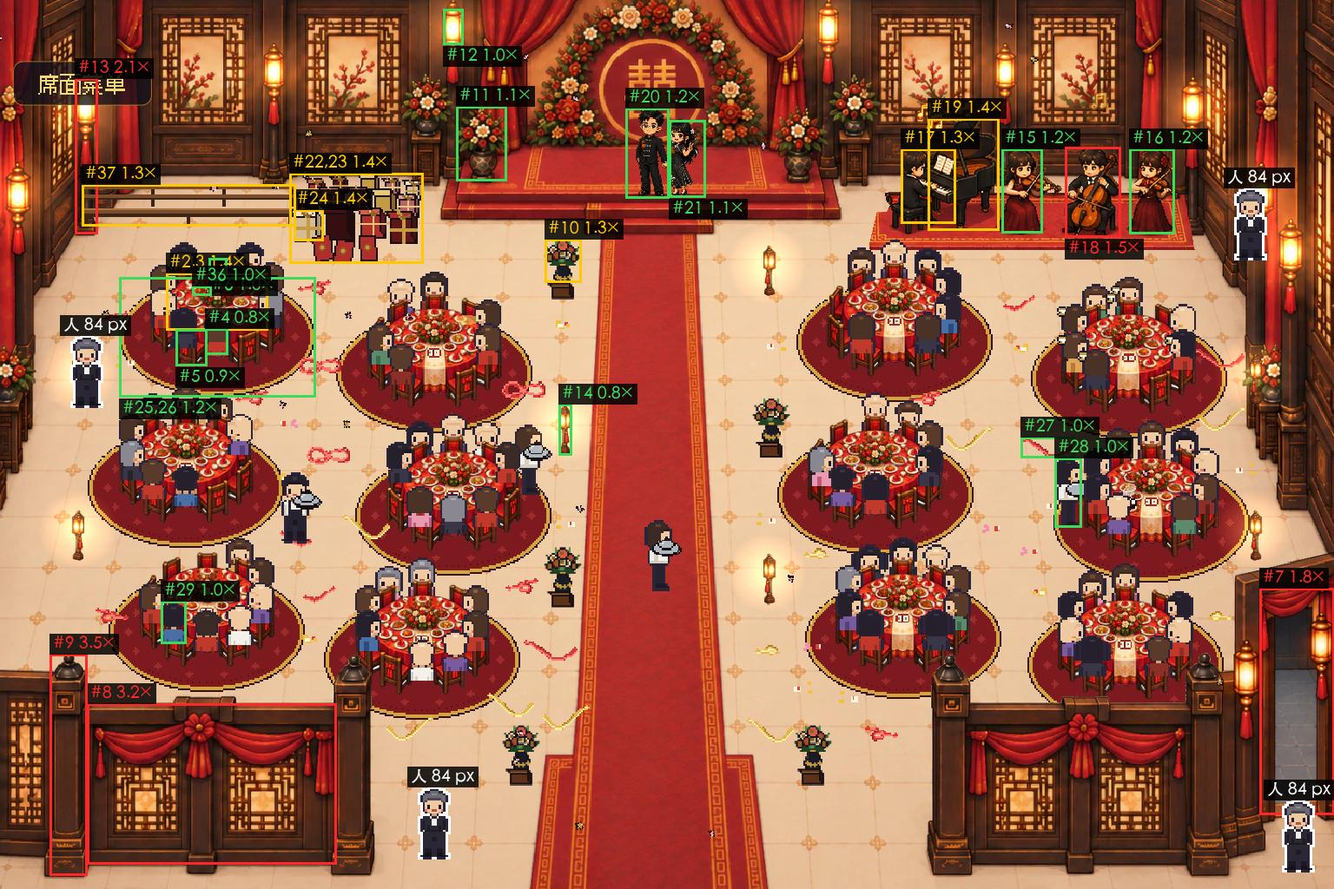
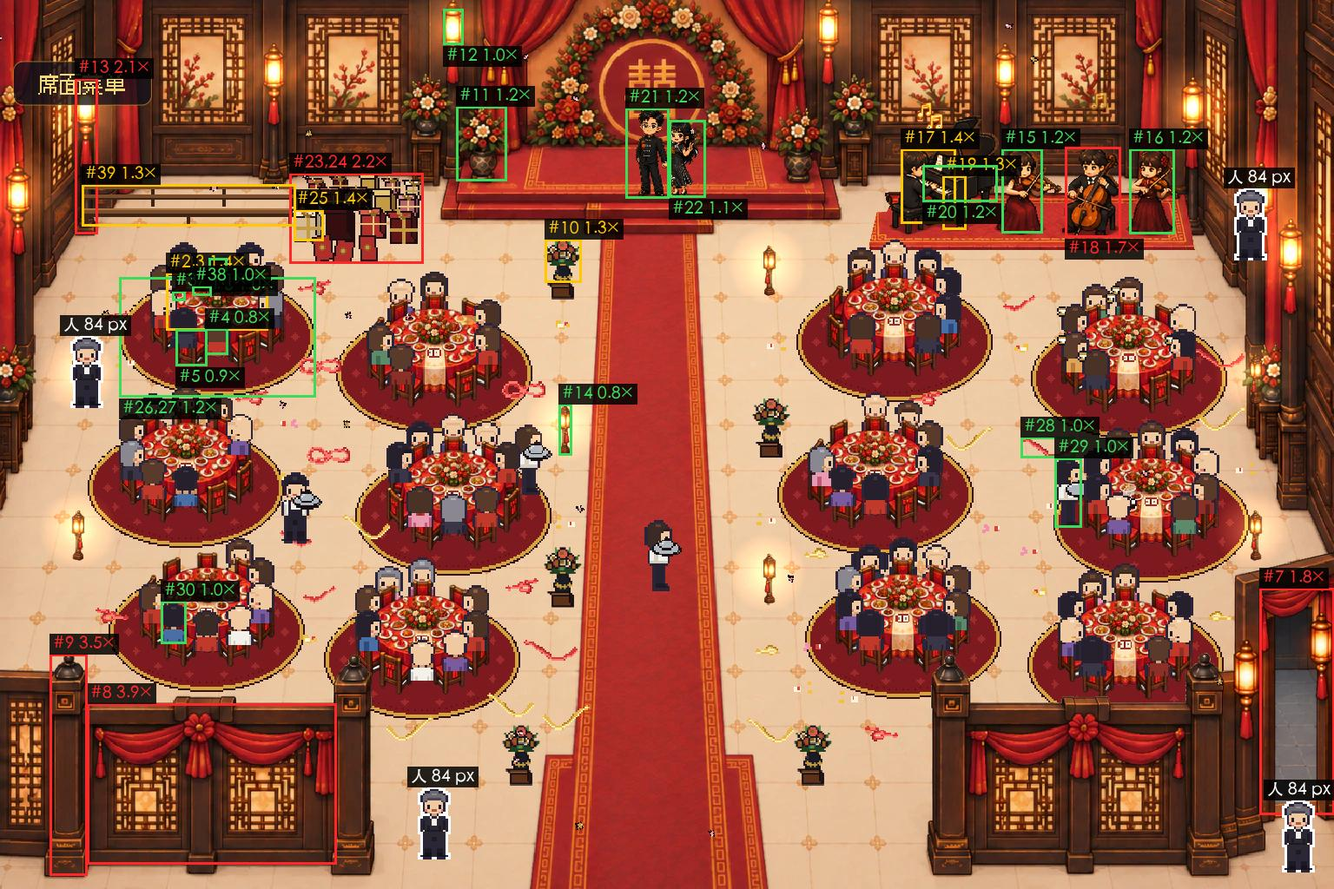
比例量尺：宴会厅 v2——按 ASSETS v1.2 官方的 7 行重算（绿 23、黄 6、红 11；v1 是绿 23、黄 8、红 7）
- 大提琴手 1.7×（官方坐着的人 62），贺礼堆红（高 2.2×，缩到约 46%），新上桌的菜三张都红（3.0／2.1／2.0×，官方「一盘菜」12～14）；钢琴改量琴身高（62，1.29×，黄）和长（86 对 72，绿）
- 要重画（GPT 的图）仍是栏杆、东侧门、壁边灯柱的杆、大提琴手（整块乐队舞台缩到 80% 只剩它 1.3×，70% 全进尺）；代码占位比例错 3 件：贺礼堆、新上桌的菜、酒杯
- 要 01 定：「一盘菜 12～14」是餐盘大小，新上桌的是大菜盘，缩到 14 会比桌上画的大菜盘（22）还小，要不要单开「大菜盘 17～24」一行

diff --git a/godot/回执/比例量尺-宴会厅.md b/godot/回执/比例量尺-宴会厅.md
@@ -1,21 +1,22 @@
 # 比例量尺 · 宴会厅（03，2026-09-24）
 
-> 01 派的：宴会厅收尾清单（`docs/场景收尾-宴会厅.md`）第 4 条。用 `godot/tools/scale_check.py` 量 main 里的宴会厅——底图、乐队、摆设、人物、桌上的东西——对「人 = 1」比例尺（`godot/ASSETS.md` v1.1 第 15 节，表和脚本里的抄本已核对，一致）。量的人不判放不放行，放不放行是 01 判。
-> 量的是 89683a1；到写报告时 main 已走到 8e523c0，这期间宴会厅的图和代码（`scene_roman_banquet`、`assets/ambience`、`hall_life.gd`、`layered_hall.gd`、`hall.gd`、`sprites.gd`）没有改动，结论对最新的 main 也成立。
+> 01 派的：宴会厅收尾清单（`docs/场景收尾-宴会厅.md`）第 4 条。用 `godot/tools/scale_check.py` 量 main 里的宴会厅——底图、乐队、摆设、人物、桌上的东西——对「人 = 1」比例尺（`godot/ASSETS.md` 第 15 节）。量的人不判放不放行，放不放行是 01 判。
+> 量的是 89683a1；这期间宴会厅的图和代码（`scene_roman_banquet`、`assets/ambience`、`hall_life.gd`、`layered_hall.gd`、`hall.gd`、`sprites.gd`）没有改动，结论对最新的 main 也成立。
+> **v2（同日晚）**：v1（11b3e21）里表里没有的 7 类东西是我估的范围；01 随后把它们补进了 ASSETS v1.2（齐腰栏杆 48、坐着的人 62、三角钢琴琴身 48／长 72、礼物堆高 48、一盘菜 12～14、大插花 48～72、壁边灯柱 77～86，02 同步进了脚本），**这一版按官方的行重算**。v1 是绿 23、黄 8、红 7，v2 是**绿 23、黄 6、红 11**，变化见「v1 到 v2 变了什么」。
 
 ## 结论
 
-**宴会厅和迎宾院不一样：底图的桌、椅、灯、花，乐队里站着的人都在尺内。要重画的是 4 件（栏杆、东侧门、壁边灯柱的杆、大提琴手），另有 2 件代码画的占位比例错了（新上的菜、酒杯），缩小就行。** 量了 38 项：**绿 23、黄 8、红 7**。
+**宴会厅和迎宾院不一样：底图的桌、椅、灯、花，乐队里站着的人都在尺内。要重画的是 4 件（栏杆、东侧门、壁边灯柱的杆、大提琴手——后者缩乐队就行），另有 3 件代码画的占位比例错了（贺礼堆、新上桌的菜、酒杯），缩小就行。** 量了 40 项：**绿 23、黄 6、红 11**（红的 11 行是 7 件东西：4 件 GPT 的图 5 行，3 件占位 6 行）。
 
 | | 有哪些 |
 | --- | --- |
-| **对（不用动）** | 底图圆桌（桌面 117 宽×66 深，桌布垂 30）和椅子（高 42、宽 21）；婚礼台两侧大花插；走道的小红灯；壁灯灯身；乐队里站着的两位小提琴手（97、98，是 84 的 1.16 倍）；新郎新娘（104、89）；服务员（80）和坐着的宾客（椅面到头顶 49）；桌下地毯、地上彩带、托盘、桌心簿子 |
-| **黄（偏大 1.3～1.4 倍，先留着）** | 圆桌桌面宽 1.36×、走道花架 1.32×、坐着的钢琴手 1.28×、三角钢琴 1.41×、贺礼堆 1.28～1.44×、一只礼盒 1.42×、长凳高 1.26× |
-| **要重画（GPT 的图，红）** | ① **栏杆**：板高 185（2.2 个人高）、柱高 255（3 个人高），比齐腰高的栏杆（1.0～1.2 米）大 3.2～3.5 倍　② **东侧门**：门洞高 261（3.1 个人），表里 115～145，1.8×　③ **壁边宫灯柱**：灯身是对的，杆子太长，整根 179（2.1 个人），表里落地宫灯 77～86，2.1×　④ **大提琴手**：坐着 104，比旁边站着的小提琴手（97）还高，1.5×——**整块乐队舞台缩到约 80% 就全部进尺**（站着 78、坐着 69～83、钢琴 103），不用重画人 |
-| **比例错的代码占位（红）** | 新上桌的菜 amb_dish_1（宽 42，该 ≤24，1.8×）、酒杯 amb_cup（高 12，该 ≤6，2.1×）。改代码里的大小就行，不用等 GPT |
+| **对（不用动）** | 底图圆桌（桌面 117 宽×66 深，桌布垂 30）和椅子（高 42、宽 21）；婚礼台两侧大插花（86，官方 48～72，1.19×）；走道的小红灯；壁灯灯身；三角钢琴的长（86 对 72，1.19×）；乐队里站着的两位小提琴手（97、98，是 84 的 1.16 倍）；新郎新娘（104、89）；服务员（80）和坐着的宾客；底图桌上画的餐盘（15 对「一盘菜」12～14）；桌下地毯、地上彩带、托盘、桌心簿子 |
+| **黄（偏大 1.3～1.4 倍，先留着）** | 圆桌桌面宽 1.36×、走道花架 1.32×、坐着的钢琴手 1.39×、三角钢琴琴身高 1.29×、一只礼盒 1.42×、长凳高 1.26× |
+| **要重画（GPT 的图，红）** | ① **栏杆**：板高 185（2.2 个人高），官方齐腰栏杆 48，3.9×；柱高 255（3 个人高）　② **东侧门**：门洞高 261（3.1 个人），表里 115～145，1.8×　③ **壁边灯柱**：灯身对，杆太长，整根 179（2.1 个人），官方 77～86，2.1×　④ **大提琴手**：坐着 104，官方坐着的人 62，1.7×，比旁边站着的小提琴手（97）还高——**整块乐队舞台缩到 80% 只剩它一个 1.3×（黄），缩到 70% 全进尺**（但那样站着的小提琴手只有 68 像素高），不用重画人 |
+| **比例错的代码占位（红）** | ① **贺礼堆**：高 104，官方 48，2.2×（宽 154，估 72～96，1.6×），缩到约 46%　② **新上桌的菜**（amb_dish_1／2／3）：宽 42／30／28，官方「一盘菜」12～14，3.0／2.1／2.0×　③ **酒杯**（amb_cup）：高 12，估该 ≤6，2.1× |
 | **代码画的占位（全部，等正式图）** | 贺礼堆、桌下地毯、彩带彩纸、灯笼光、花瓣、菜、托盘、酒杯、蒸汽、桌心簿子、长凳；**服务员和 NPC 宾客**（16×32 放大 2.625 倍的方块人，比例对，但清单要求换成 GPT 画的人物）；乐队备用色块（amb_piano、amb_cello 等，乐队图在时不用，可删） |
 
-对清单第 7 条（厅里的摆设要不要换）的回答：**比例对的摆设（地毯、彩带、托盘、簿子）可以先留着；偏大的（贺礼堆、礼盒、长凳，1.3～1.4 倍）也能留，嫌抢眼缩到 80%；比例错的两件（新上的菜、酒杯）缩小。** 人物一定换，是 01 已经定的，和比例无关。
+对清单第 7 条（厅里的摆设要不要换）的回答：**比例对的摆设（地毯、彩带、托盘、簿子）可以先留着；礼盒偏大 1.4×、长凳 1.26× 也能留；贺礼堆（缩到约 46%）、新上桌的菜（缩到 12～14 宽）、酒杯（缩到 6 高以内）比例错，改代码里的大小，不用等 GPT。** 人物一定换，是 01 已经定的，和比例无关。
 
 ![标图：红框超过 1.5 倍，黄框 1.25～1.5，绿框对；白边小人是游戏里真的 NPC（84 像素）按 1:1 贴上去的尺子](比例量尺-宴会厅-标图.jpg)
 
@@ -26,7 +27,7 @@
 方法同 `比例量尺-样本-迎宾院.md`，这次多三处：
 
 1. **图**：整厅 1:1 截图（1536×1024，1 像素 = 画布 1 像素，不带界面、字牌、弹窗）。截图用的是我在一次性 worktree 里给 main.gd 临时加的预设（不提交），`RES=1536x1024 ./capture.sh 目录 hall_1to1_serve`；底图取自 `git show 89683a1:godot/assets/layered/scene_roman_banquet/base.png`。**跟手机屏没关系，量的是画布**；服务员、宾客、乐队、摆设都是叠在底图上的，所以要量叠好的
-2. **尺子**：先用表里有的行（圆桌、椅子、门、一盆花、落地宫灯、书、人）；**表里没有的类型（栏杆、坐姿、钢琴、贺礼堆、地毯、菜盘、托盘、酒杯、壁灯……）我按真实大小估了一个范围**，表里标「估」，范围写在框文件里，改数就能复跑。摆设的大小（代码画的）优先取代码里的真实尺寸（图片文件的不透明外框，位置按 `hall_life.gd` 的锚点）
+2. **尺子**：ASSETS v1.2 第 15 节的行（圆桌、椅子、门、一盆花、落地宫灯、书、人，加 v1.2 的 7 行）；**仍没有官方行的东西（栏杆柱、壁灯灯身、贺礼堆宽、礼盒、托盘、酒杯、地毯、彩带、宾客坐姿、大菜盘对照）我按真实大小估了范围**，表里标「估」，范围写在框文件里，改数就能复跑。摆设的大小（代码画的）取代码里的真实尺寸（图片文件的不透明外框，位置按 `hall_life.gd` 的锚点）
 3. **加了「分节、来源、结论」三样**：工具的 `group`／`src`／`call` 字段和 `--compact` 窄表，一屏东西多时表能看
 
 ## 偏差表（脚本 `--compact` 输出，结论列是我按判定写的）
@@ -52,7 +53,7 @@
 | # | 东西 | 测得 px | 表里 px | 超出表里范围几倍 | 判定 | 来源 | 结论 |
 | --- | --- | --- | --- | --- | --- | --- | --- |
 | 7 | 东侧门 门洞高（通后厅） | 261（3.11 人） | 115～145（1.37～1.73 人） | 1.8× | 红·大了 | GPT 底图 | 要重画：门比人高 3 倍 |
-| 8 | 栏杆 板高（入口两侧，左右一样） | 185（2.20 人） | 48～57.6（0.57～0.69 人；估 1～1.2 米） | 3.2× | 红·大了 | GPT 底图＋积木 fg_rail | 要重画：比人高一倍多 |
+| 8 | 栏杆 板高（入口两侧，左右一样） | 185（2.20 人） | 48（0.57 人） | 3.9× | 红·大了 | GPT 底图＋积木 fg_rail | 要重画：比人高一倍多 |
 | 9 | 栏杆 柱高（连柱顶的黑帽） | 255（3.04 人） | 57.6～72（0.69～0.86 人；估 1.2～1.5 米） | 3.5× | 红·大了 | GPT 底图＋积木 fg_rail | 要重画：柱子 3 个人高 |
 
 **底图：花、灯**
@@ -60,7 +61,7 @@
 | # | 东西 | 测得 px | 表里 px | 超出表里范围几倍 | 判定 | 来源 | 结论 |
 | --- | --- | --- | --- | --- | --- | --- | --- |
 | 10 | 走道花架 花加花瓶 高（不含木架） | 50（0.60 人） | 24～38（0.29～0.45 人） | 1.3× | 黄·偏大 | GPT 积木 blk_flower_pot（5 个） | 先留着 |
-| 11 | 台上两侧大花插 高（花加瓶） | 86（1.02 人） | 43.2～76.8（0.51～0.91 人；估 0.9～1.6 米） | 1.1× | 绿 | GPT 底图 | 对（估） |
+| 11 | 台上两侧大花插 高（花加瓶） | 86（1.02 人） | 48～72（0.57～0.86 人） | 1.2× | 绿 | GPT 底图 | 对 |
 | 12 | 壁灯（宫灯）灯身 高 | 41（0.49 人） | 24～43.2（0.29～0.51 人；估 0.5～0.9 米） | 1.0× | 绿 | GPT 底图 | 对（估） |
 | 13 | 壁边宫灯柱 整根高（灯加杆，左墙根） | 179（2.13 人） | 77～86（0.92～1.02 人） | 2.1× | 红·大了 | GPT 底图 | 要重画：杆太长（灯身是对的） |
 | 14 | 落地小红灯 高（整根） | 59（0.70 人） | 77～86（0.92～1.02 人） | 0.8× | 绿 | GPT 积木 blk_lantern_floor（7 个） | 对（略小） |
@@ -71,65 +72,79 @@
 | --- | --- | --- | --- | --- | --- | --- | --- |
 | 15 | 小提琴手（左，站）高 | 97（1.15 人） | 84（1.00 人） | 1.2× | 绿 | GPT 舞台图 v4（整块） | 对 |
 | 16 | 小提琴手（右，站）高 | 98（1.17 人） | 84（1.00 人） | 1.2× | 绿 | GPT 舞台图 v4（整块） | 对 |
-| 17 | 钢琴手（坐着）头顶到脚 | 86（1.02 人） | 57.6～67.2（0.69～0.80 人；估 1.2～1.4 米） | 1.3× | 黄·偏大 | GPT 舞台图 v4（整块） | 先留着 |
-| 18 | 大提琴手（坐着）头顶到脚 | 104（1.24 人） | 57.6～67.2（0.69～0.80 人；估 1.2～1.4 米） | 1.5× | 红·大了 | GPT 舞台图 v4（整块） | 要缩：整块舞台缩到约 80% 就都进尺 |
-| 19 | 三角钢琴（开盖）高 | 129（1.54 人） | 72～91.2（0.86～1.09 人；估 1.5～1.9 米） | 1.4× | 黄·偏大 | GPT 舞台图 v4（整块） | 先留着 |
+| 17 | 钢琴手（坐着）头顶到脚 | 86（1.02 人） | 62（0.74 人） | 1.4× | 黄·偏大 | GPT 舞台图 v4（整块） | 先留着 |
+| 18 | 大提琴手（坐着）头顶到脚 | 104（1.24 人） | 62（0.74 人） | 1.7× | 红·大了 | GPT 舞台图 v4（整块） | 要缩：整块舞台缩到 80% 只剩它 1.3×（黄），缩到 70% 全进尺 |
+| 19 | 三角钢琴 琴身高（案体顶到地） | 62（0.74 人） | 48（0.57 人） | 1.3× | 黄·偏大 | GPT 舞台图 v4（整块） | 先留着 |
+| 20 | 三角钢琴 长 | 86（1.02 人） | 72（0.86 人） | 1.2× | 绿 | GPT 舞台图 v4（整块） | 对 |
 
 **新人（婚礼台上）**
 
 | # | 东西 | 测得 px | 表里 px | 超出表里范围几倍 | 判定 | 来源 | 结论 |
 | --- | --- | --- | --- | --- | --- | --- | --- |
-| 20 | 新郎 高 | 104（1.24 人） | 84（1.00 人） | 1.2× | 绿 | 新人图（合照） | 对 |
-| 21 | 新娘 高 | 89（1.06 人） | 84（1.00 人） | 1.1× | 绿 | 新人图（合照） | 对 |
+| 21 | 新郎 高 | 104（1.24 人） | 84（1.00 人） | 1.2× | 绿 | 新人图（合照） | 对 |
+| 22 | 新娘 高 | 89（1.06 人） | 84（1.00 人） | 1.1× | 绿 | 新人图（合照） | 对 |
 
 **厅里的摆设**
 
 | # | 东西 | 测得 px | 表里 px | 超出表里范围几倍 | 判定 | 来源 | 结论 |
 | --- | --- | --- | --- | --- | --- | --- | --- |
-| 22 | 贺礼堆 宽 | 154（1.83 人） | 72～120（0.86～1.43 人；估 1.5～2.5 米） | 1.3× | 黄·偏大 | 代码画的占位图（amb_gift_pile） | 占位，先留着（偏大） |
-| 23 | 贺礼堆 高 | 104（1.24 人） | 43.2～72（0.51～0.86 人；估 0.9～1.5 米） | 1.4× | 黄·偏大 | 代码画的占位图（amb_gift_pile） | 占位，先留着（偏大） |
-| 24 | 一只礼盒 宽（白金那只） | 34（0.40 人） | 14.4～24（0.17～0.29 人；估 0.3～0.5 米） | 1.4× | 黄·偏大 | 代码画的占位图（amb_gift_pile） | 占位，先留着（偏大） |
-| 25 | 桌下地毯 宽（每桌一块） | 226（2.69 人） | 153.6～192（1.83～2.29 人；估 3.2～4 米） | 1.2× | 绿 | 代码画的占位图（amb_rug） | 占位，对 |
-| 26 | 桌下地毯 前后 | 138（1.64 人） | 102.4～128（1.22～1.52 人；估 3.2～4 米） | 1.1× | 绿 | 代码画的占位图（amb_rug） | 占位，对 |
-| 27 | 地上彩带 长（最长那条） | 62（0.74 人） | 28.8～72（0.34～0.86 人；估 0.6～1.5 米） | 1.0× | 绿 | 代码画的占位图（amb_streamer） | 占位，对 |
+| 23 | 贺礼堆 宽 | 154（1.83 人） | 72～96（0.86～1.14 人；估 1.5～2 米） | 1.6× | 红·大了 | 代码画的占位图（amb_gift_pile） | 占位，要缩到约 46% |
+| 24 | 贺礼堆 高 | 104（1.24 人） | 48（0.57 人） | 2.2× | 红·大了 | 代码画的占位图（amb_gift_pile） | 占位，要缩到约 46%（高 48 以内） |
+| 25 | 一只礼盒 宽（白金那只） | 34（0.40 人） | 14.4～24（0.17～0.29 人；估 0.3～0.5 米） | 1.4× | 黄·偏大 | 代码画的占位图（amb_gift_pile） | 占位，先留着（偏大） |
+| 26 | 桌下地毯 宽（每桌一块） | 226（2.69 人） | 153.6～192（1.83～2.29 人；估 3.2～4 米） | 1.2× | 绿 | 代码画的占位图（amb_rug） | 占位，对 |
+| 27 | 桌下地毯 前后 | 138（1.64 人） | 102.4～128（1.22～1.52 人；估 3.2～4 米） | 1.1× | 绿 | 代码画的占位图（amb_rug） | 占位，对 |
+| 28 | 地上彩带 长（最长那条） | 62（0.74 人） | 28.8～72（0.34～0.86 人；估 0.6～1.5 米） | 1.0× | 绿 | 代码画的占位图（amb_streamer） | 占位，对 |
 
 **人（代码画的方块人）**
 
 | # | 东西 | 测得 px | 表里 px | 超出表里范围几倍 | 判定 | 来源 | 结论 |
 | --- | --- | --- | --- | --- | --- | --- | --- |
-| 28 | 服务员 高 | 80（0.95 人） | 84（1.00 人） | 1.0× | 绿 | 代码画的人（16×32 放大 2.625 倍） | 对；代码画的方块人，要换 GPT 人物 |
-| 29 | 宾客（坐着）椅面到头顶 | 49（0.58 人） | 40.8～48（0.49～0.57 人；估 0.85～1 米） | 1.0× | 绿 | 代码画的人（16×32 放大 2.625 倍） | 对；同上 |
+| 29 | 服务员 高 | 80（0.95 人） | 84（1.00 人） | 1.0× | 绿 | 代码画的人（16×32 放大 2.625 倍） | 对；代码画的方块人，要换 GPT 人物 |
+| 30 | 宾客（坐着）椅面到头顶 | 49（0.58 人） | 40.8～48（0.49～0.57 人；估 0.85～1 米） | 1.0× | 绿 | 代码画的人（16×32 放大 2.625 倍） | 对；同上 |
 
 **桌上的东西**
 
 | # | 东西 | 测得 px | 表里 px | 超出表里范围几倍 | 判定 | 来源 | 结论 |
 | --- | --- | --- | --- | --- | --- | --- | --- |
-| 30 | 桌心簿子 宽 | 16（0.19 人） | 19～24（0.23～0.29 人） | 0.8× | 绿 | 代码画的占位（GDScript） | 占位，对（小，在范围内） |
-| 31 | 新上的菜（amb_dish_1）宽 | 42（0.50 人） | 16.8～24（0.20～0.29 人；估 0.35～0.5 米） | 1.8× | 红·大了 | 代码画的占位图（amb_dish） | 占位，要缩到 24 宽以内 |
-| 32 | 新上的菜（amb_dish_2）宽 | 30（0.36 人） | 16.8～24（0.20～0.29 人；估 0.35～0.5 米） | 1.2× | 绿 | 代码画的占位图（amb_dish） | 占位，对（在边上） |
-| 33 | 新上的菜（amb_dish_3）宽 | 28（0.33 人） | 16.8～24（0.20～0.29 人；估 0.35～0.5 米） | 1.2× | 绿 | 代码画的占位图（amb_dish） | 占位，对（在边上） |
-| 34 | 服务员的托盘 宽 | 34（0.40 人） | 19.2～28.8（0.23～0.34 人；估 0.4～0.6 米） | 1.2× | 绿 | 代码画的占位图（amb_tray） | 占位，对 |
-| 35 | 酒杯 高（amb_cup） | 12（0.14 人） | 3.8～5.8（0.05～0.07 人；估 0.08～0.12 米） | 2.1× | 红·大了 | 代码画的占位图（amb_cup） | 占位，要缩到 6 高以内 |
-| 36 | 底图桌上画的大菜盘 宽（对照） | 22（0.26 人） | 16.8～24（0.20～0.29 人；估 0.35～0.5 米） | 1.0× | 绿 | GPT 底图 | 对（对照用） |
+| 31 | 桌心簿子 宽 | 16（0.19 人） | 19～24（0.23～0.29 人） | 0.8× | 绿 | 代码画的占位（GDScript） | 占位，对（小，在范围内） |
+| 32 | 新上的菜（amb_dish_1）宽 | 42（0.50 人） | 12～14（0.14～0.17 人） | 3.0× | 红·大了 | 代码画的占位图（amb_dish） | 占位，要缩到 1/3（宽 14 以内） |
+| 33 | 新上的菜（amb_dish_2）宽 | 30（0.36 人） | 12～14（0.14～0.17 人） | 2.1× | 红·大了 | 代码画的占位图（amb_dish） | 占位，要缩到约一半 |
+| 34 | 新上的菜（amb_dish_3）宽 | 28（0.33 人） | 12～14（0.14～0.17 人） | 2.0× | 红·大了 | 代码画的占位图（amb_dish） | 占位，要缩到约一半 |
+| 35 | 服务员的托盘 宽 | 34（0.40 人） | 19.2～28.8（0.23～0.34 人；估 0.4～0.6 米） | 1.2× | 绿 | 代码画的占位图（amb_tray） | 占位，对 |
+| 36 | 酒杯 高（amb_cup） | 12（0.14 人） | 3.8～5.8（0.05～0.07 人；估 0.08～0.12 米） | 2.1× | 红·大了 | 代码画的占位图（amb_cup） | 占位，要缩到 6 高以内 |
+| 37 | 底图桌上画的餐盘 宽（对照） | 15（0.18 人） | 12～14（0.14～0.17 人） | 1.1× | 绿 | GPT 底图 | 对（对照用） |
+| 38 | 底图桌上画的大菜盘 宽（对照，估） | 22（0.26 人） | 16.8～24（0.20～0.29 人；估 0.35～0.5 米） | 1.0× | 绿 | GPT 底图 | 对（对照用） |
 
 **长凳**
 
 | # | 东西 | 测得 px | 表里 px | 超出表里范围几倍 | 判定 | 来源 | 结论 |
 | --- | --- | --- | --- | --- | --- | --- | --- |
-| 37 | 长凳 高（靠背顶到地） | 48（0.57 人） | 38（0.45 人） | 1.3× | 黄·偏大 | 代码画的占位（GDScript） | 占位，先留着（偏大） |
-| 38 | 长凳 每人占宽 | 30（0.36 人） | 24～33.6（0.29～0.40 人；估 0.5～0.7 米） | 1.0× | 绿 | 代码画的占位（GDScript） | 占位，对 |
+| 39 | 长凳 高（靠背顶到地） | 48（0.57 人） | 38（0.45 人） | 1.3× | 黄·偏大 | 代码画的占位（GDScript） | 占位，先留着（偏大） |
+| 40 | 长凳 每人占宽 | 30（0.36 人） | 24～33.6（0.29～0.40 人；估 0.5～0.7 米） | 1.0× | 绿 | 代码画的占位（GDScript） | 占位，对 |
 
-红 7 · 黄 8 · 绿 23（共 38 项）
+红 11 · 黄 6 · 绿 23（共 40 项）
 
 **判定的规矩**同迎宾院：超出表里范围 >1.5× 或 <0.5× 红，>1.25× 或 <⅔ 黄；估的行同样按这条判，但「估」是我的假定，请 01 看一眼。
 
+## v1 到 v2 变了什么
+
+| 东西 | v1（我估的） | v2（ASSETS v1.2） |
+| --- | --- | --- |
+| 大提琴手 | 1.5×（估 1.2～1.4 米），压线 | **1.7×**（官方 62），红得更明确；缩到 70% 才全进尺 |
+| 钢琴手 | 1.28×，黄 | 1.39×，黄 |
+| 三角钢琴 | 量的是开盖后的总高 129，1.4×（估 72～91） | 官方是**琴身高 48**（案体顶到地，盖不算）：重量得 62，1.29×，黄；长 86 对 72，1.19×，绿 |
+| 栏杆板 | 3.2×（估 48～57.6） | 3.9×（官方 48） |
+| 贺礼堆 | 黄 1.3～1.4×（估得宽松） | **红**：高 104 对官方 48，2.2×；宽（仍是估）1.6× |
+| 新上桌的菜 | 只有 amb_dish_1 红（1.8×，估大菜盘 17～24） | **三张都红**：3.0／2.1／2.0×（官方「一盘菜」12～14，比我估的小） |
+| 大插花、壁边灯柱 | 绿 1.1×／红 2.1× | 不变（绿 1.19×／红 2.1×） |
+
 ## 要 01 定的
 
-1. **表里没有的类型要不要加进比例尺表。** 这次估的：栏杆 1.0～1.2 米（若当成 2.4 米高的屏风隔断，也是 1.6×，仍红）、坐姿头顶到地 1.2～1.4 米、三角钢琴开盖 1.5～1.9 米、婚礼台大花插 0.9～1.6 米、壁灯灯身 0.5～0.9 米、贺礼堆 1.5～2.5 米宽 × 0.9～1.5 米高、菜盘 0.35～0.5 米、托盘 0.4～0.6 米、酒杯 0.08～0.12 米。**其中两处我用「估」而没用表里最近的一行**：婚礼台大花插和壁灯灯身——表里只有「一盆花 24～38」「挂着的灯笼 19～24」（小花盆、小红灯笼），按它们量分别是 2.3×、1.7×（红），按宫灯／大花插估是 1.1×、1.0×（绿）。我认为宫灯和大花插本来就比小灯笼小花盆大，所以给绿；01 若坚持按表里那两行，这两件改成红
-2. **栏杆是「人走到后面被挡住」的遮挡块**（`behind_rail` 预设看的就是这个）。重画成齐腰高（约 50 像素），被挡的效果会变——人只被挡下半身；要保留现在这样高的遮挡，就改叫「屏风隔断」，压到 115 像素左右（2.4 米）。这是画面和玩法的取舍，我只报数
-3. **乐队整块缩到约 80%**：图是 GPT 一整块画的（`stage.png`，402×164），缩放怎么做（`band.json` 里有没有 scale、位置怎么重摆）是 02 的事；缩完舞台宽 375 → 300，右端会离墙边多出一截
-4. **壁边宫灯柱（#13）按表里「落地宫灯（连杆）」量，红 2.1×**：它的下半截更像墙上的立柱，01 若不把它当落地灯，这一项就不判，红项变 6 项。
-5. **圆桌桌面宽 1.36×（黄）**：桌面约 2.4 米，表里十人桌 1.8 米；深度对（1.1×），是画得扁。代码里每桌 10 座，2.4 米的桌说得通，我先标「先留着」。若要严格照表，得让 GPT 把桌加椅一圈缩 25%，会连带改椅位圈的量法，代价大
+1. **「一盘菜 12～14」是餐盘大小，新上桌的菜是大菜盘。** 底图桌上画的餐盘 15（1.07×，对），画的大菜盘 22（按 0.35～0.5 米估是 1.0×，按官方行是 1.6×）。新上桌的菜缩到 14 宽以后，比桌上画的大菜盘（22）还小，看着像餐盘。要不要给「大菜盘 17～24」单开一行？开了，amb_dish_1 是 1.8×（还是红，缩到 24 以内），amb_dish_2 是 1.25×、amb_dish_3 是 1.17×（都能留）
+2. **栏杆是「人走到后面被挡住」的遮挡块**（`behind_rail` 预设看的就是这个）。重画成齐腰高（官方 48 像素），被挡的效果会变——人只被挡下半身；要保留现在这样高的遮挡，就改叫「屏风隔断」，压到 115 像素左右（2.4 米）。这是画面和玩法的取舍，我只报数
+3. **乐队整块缩多少**：图是 GPT 一整块画的（`stage.png`，402×164）。**缩到 80%**：站着的小提琴手 78（0.93 个人）、钢琴手 69、钢琴琴身 50，都进尺，只剩大提琴手 83（1.3×，黄）；**缩到 70%**：全绿，但小提琴手只剩 68 像素高（0.81 个人）。我倾向 80%。缩放怎么做（`band.json` 里有没有 scale、位置怎么重摆）是 02 的事；缩完舞台宽 375 → 300（80%）或 262（70%），右端会离墙边多出一截。只缩大提琴手那一块不好拆，图是整块的
+4. **圆桌桌面宽 1.36×（黄）**：桌面约 2.4 米，官方十人桌 1.8 米；深度对（1.1×），是画得扁。代码里每桌 10 座，2.4 米的桌说得通，我先标「先留着」。若要严格照表，得让 GPT 把桌加椅一圈缩 25%，会连带改椅位圈的量法，代价大
+5. **仍没有官方行、我估的**（标「估」）：栏杆柱（红，3.5×）、酒杯（红，2.1×）、贺礼堆宽（红，1.6×）、礼盒、壁灯灯身、托盘、地毯、彩带、宾客坐姿。红的三行都不改变「要重画」的清单（栏杆、贺礼堆本来就红；酒杯只有估的这一行），请 01 看要不要也定成官方行
 
 ## 顺手看到的（不是比例，不是现在的 bug）
 
@@ -140,7 +155,8 @@
 
 ## 量不准、不敢说满的地方
 
-- 底图上的东西（桌、椅、灯、花、栏杆、门）是手读格子画的框，误差约 ±3～4 像素；红黄边上的项（大提琴手 1.55×、桌面宽 1.36×）差几个像素不改结论。**大提琴手在红线上**：坐姿范围我估 1.2～1.4 米，估到 1.5 米就变黄——但它肉眼也比旁边站着的小提琴手高，我倾向报红
+- 底图上的东西（桌、椅、灯、花、栏杆、门）是手读格子画的框，误差约 ±3～4 像素；黄红边上的项（桌面宽 1.36×、钢琴琴身 1.29×）差几个像素不改结论
+- **钢琴琴身高**：盖子是开着的，我量的是案体上沿（键盘那头）到地，约 62，读法有 ±4 的余地；盖子合上的总高不好量
 - 12 张桌是同一幅（左右翻转两种），只量了一张
 - 东侧门宽度被图边切掉、又是斜着看，只量了高
 - 被宾客挡住的桌面边缘，按底图读
@@ -158,4 +174,4 @@ python3 ../tools/scale_check.py measure 比例量尺-宴会厅-框.json --image 
 
 ## 工具和 skill 的改动
 
-`scale_check.py` 这次加了：表里补上「宴会圆桌 桌面前后 58」（原来漏了）；`meters` 可以写范围 `[下限, 上限]`；`group`／`src`／`call` 三个字段和 `--compact`。迎宾院样本的表用新版重跑，和已提交的报告一字不差。`scale-check` 的 skill 已同步更新（在仓库外，没进提交）。
+`scale_check.py` 在 v1 加了：表里补上「宴会圆桌 桌面前后 58」（原来漏了）；`meters` 可以写范围 `[下限, 上限]`；`group`／`src`／`call` 三个字段和 `--compact`；「山庄大门门楼」三行。02 在 dd0625d 把 ASSETS v1.2 的 7 行也同步进了 `STANDARD`（`rail_h`、`seated_h`、`piano_h`、`piano_w`、`gifts_h`、`dish_w`、`big_flower_h`、`wall_lamp_h`），v2 的框文件直接写这些 std。迎宾院样本的表用新版重跑，和已提交的报告一字不差。`scale-check` 的 skill 已同步更新（在仓库外，没进提交）。
